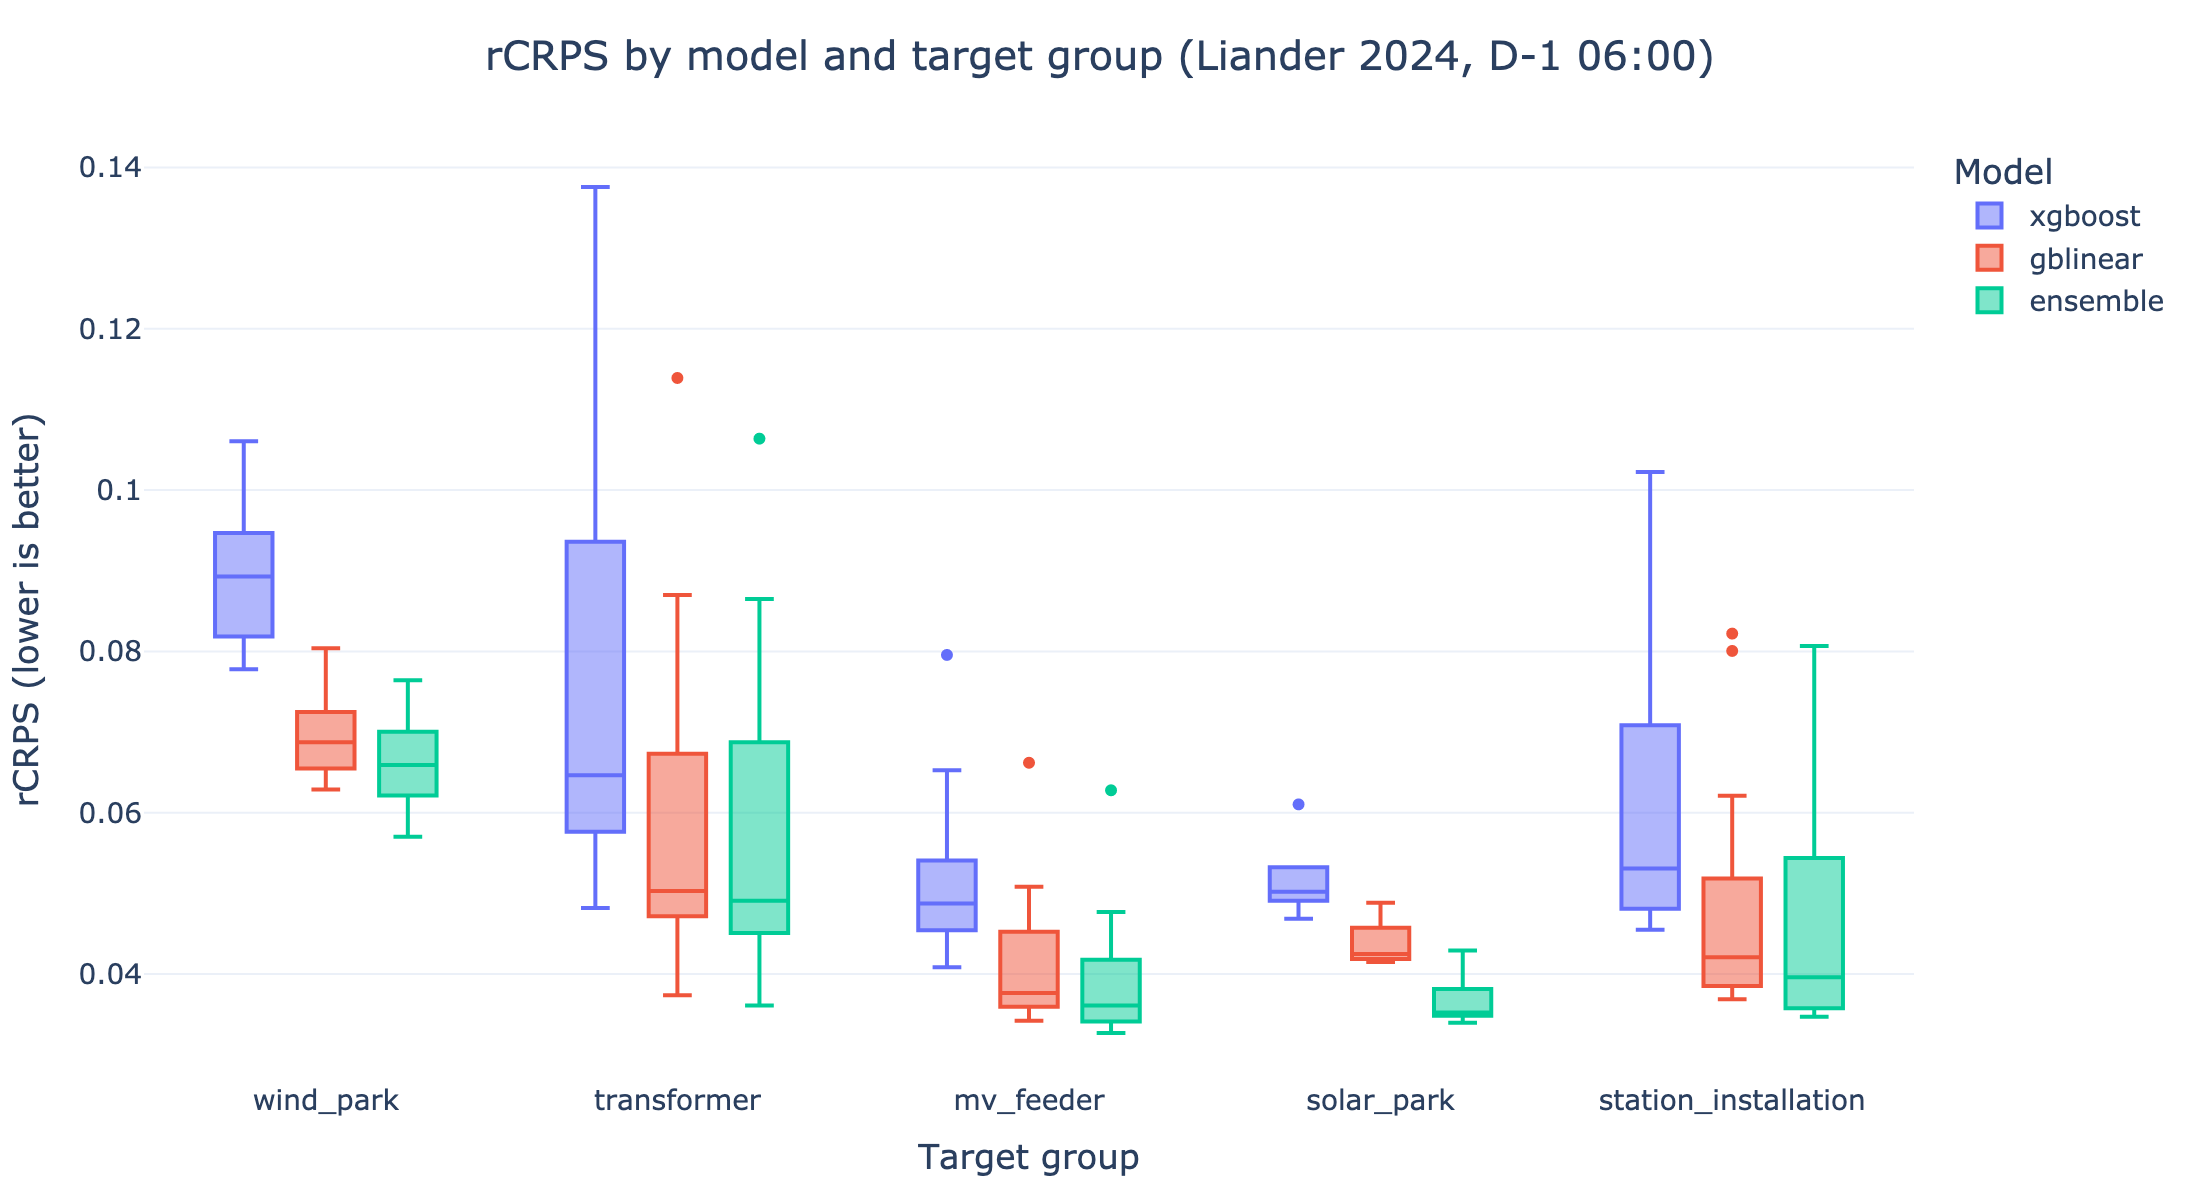
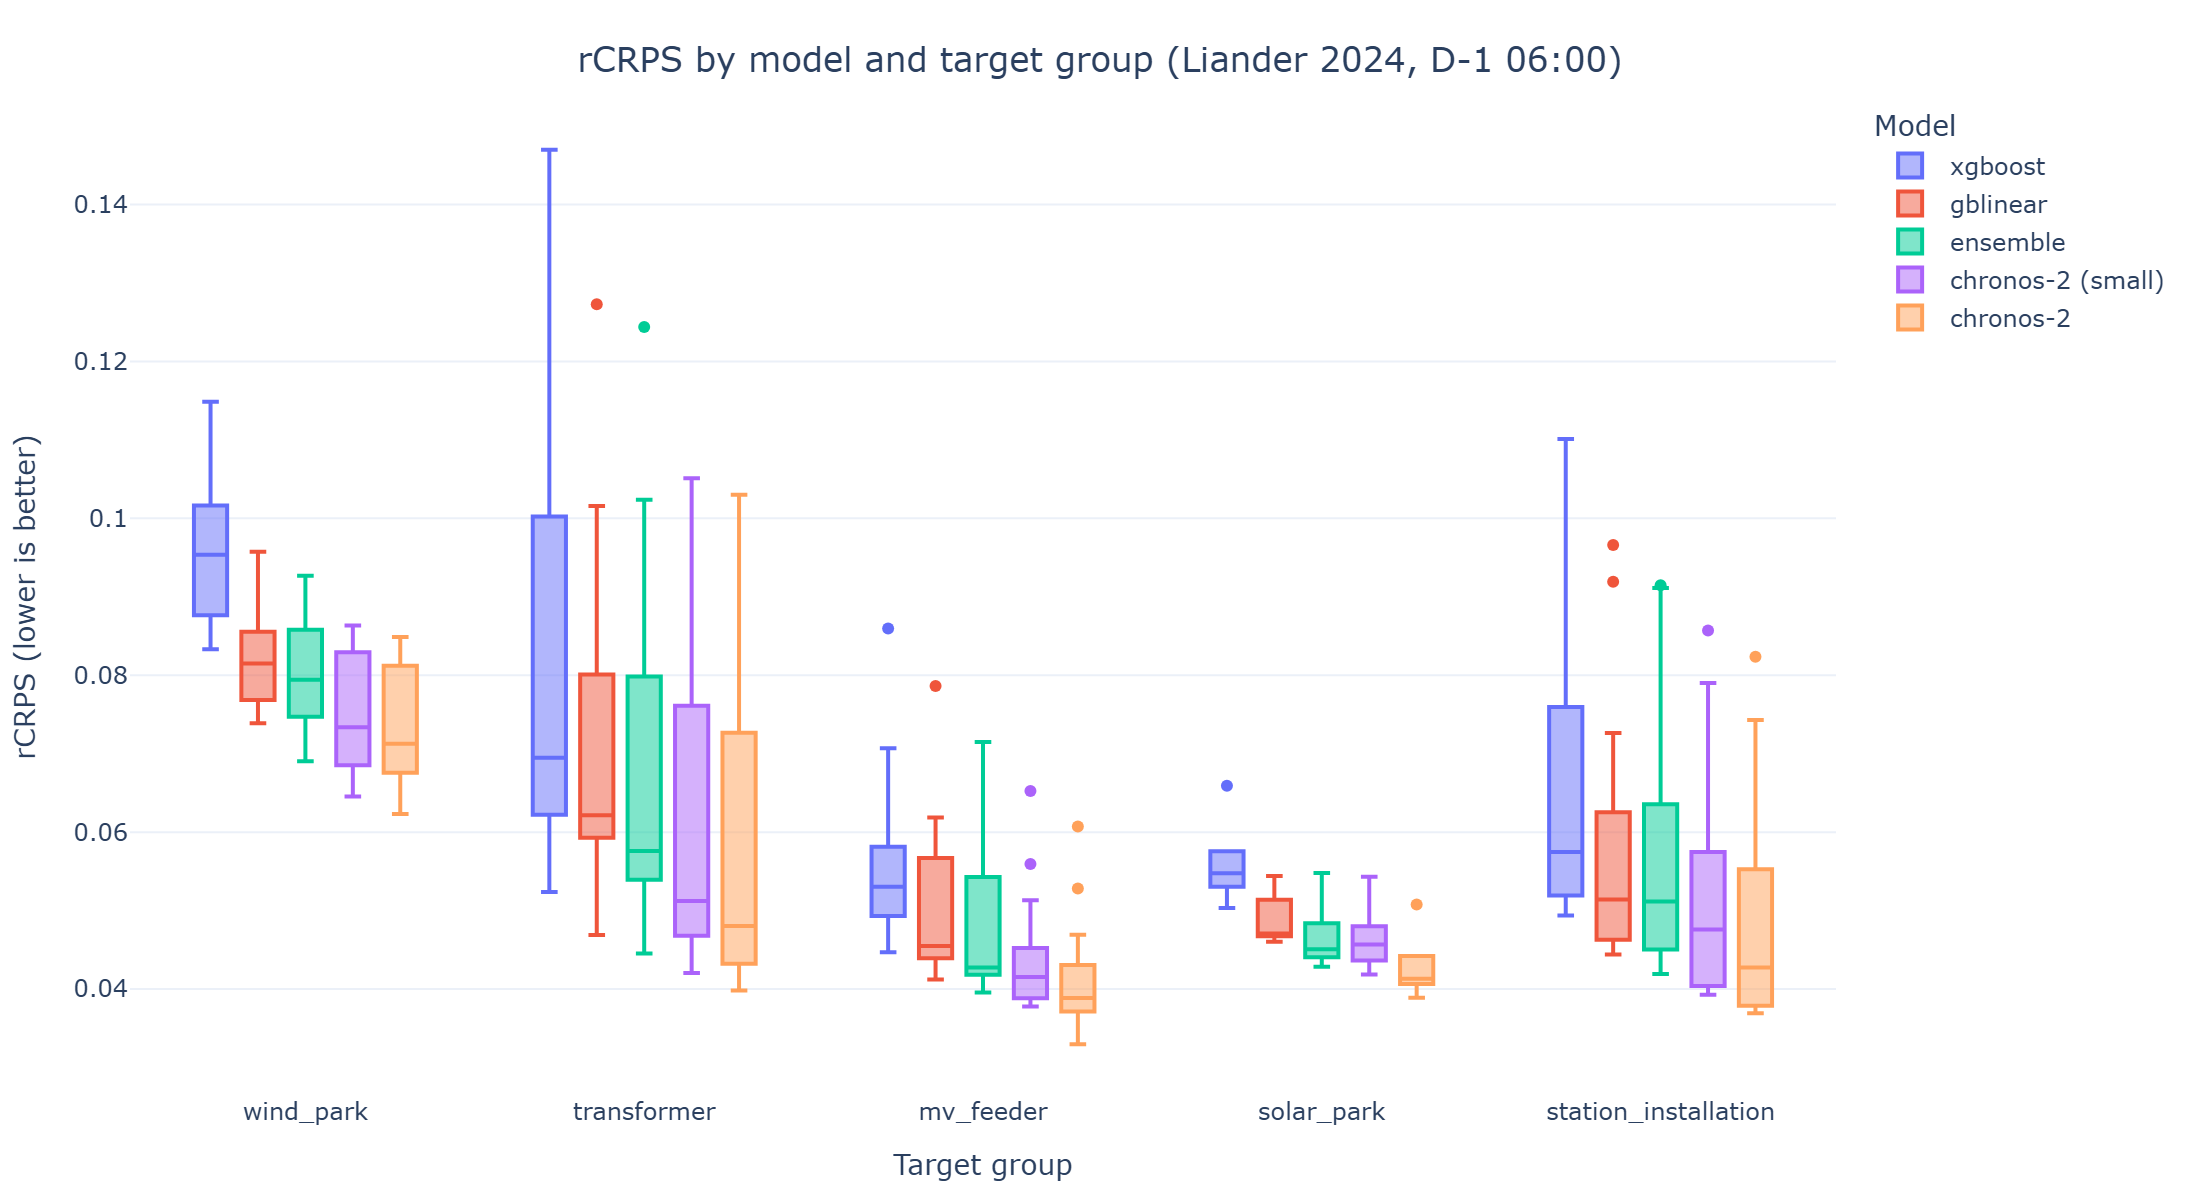
fix: update benchmark numbers with interval rCRPS and include Chronos results in figure (#1208)
<!--
Thanks for contributing to OpenSTEF! Please fill out this template to
help us
review your PR efficiently. See the contributing guide for more details:
https://openstef.github.io/openstef/contribute/index.html
-->

## What does this PR do?

<!-- Describe the change and the motivation behind it. -->

Updates Liander2024 benchmark results page:

- rCRPS uses `interval` instead of `uniform` method
- Chronos results included in figure
- Most recent OpenSTEF version used for benchmarks: also rMAE changed
slightly for XGBoost, GBLinear and ensemble model. Numbers are now
reproducible with current OpenSTEF version

Addresses https://github.com/OpenSTEF/openstef/issues/1182

## Type of change

- [ ] Bug fix
- [ ] New feature
- [ ] Breaking change (see checklist below)
- [x] Documentation
- [ ] Refactor / chore / CI

## Breaking changes checklist

<!-- Only relevant if you checked "Breaking change" above, or are
unsure. -->

- [ ] Public API, config schema, or serialized/pickled objects changed
in a way that affects existing users
- [ ] If yes: see the [breaking changes
guide](https://openstef.github.io/openstef/contribute/development_workflow.html#breaking-changes)
for the pickle/`_migrate_state` migration pattern

Migration path for existing users (e.g. "old pickled `XScaler` objects
auto-migrate on load", "users must now pass `X` explicitly"):

<!-- describe here -->

## AI disclosure

<!--
See our AI-assisted contributions guidelines:
[…]

diff --git a/docs/source/user_guide/guides/benchmark_results.rst b/docs/source/user_guide/guides/benchmark_results.rst
@@ -31,18 +31,12 @@ At a Glance
 
 .. image:: /images/guides/liander2024_rcrps_by_group.png
    :alt: Box plot of rCRPS per model and target group on the Liander 2024 benchmark.
-         The ensemble has the lowest median rCRPS in every group, gblinear is close
-         behind, and xgboost trails.
+         Chronos-2 has the lowest median rCRPS in every group, followed by Chronos-2 
+         small, the ensemble model, GBLinear and XGBoost.
    :align: center
 
 Each box shows the distribution of per-target ``rCRPS`` within a target group (one
 point per target). Lower is better.
-
-.. note::
-
-   This figure covers the **trained classical models** only and predates the
-   foundation-model results. For the zero-shot **Chronos-2** numbers, see the
-   :ref:`tables below <benchmark_tables>`.
 
 **Takeaways**
 
@@ -154,40 +148,40 @@ column is in bold.
      - Solar park
      - Wind park
    * - XGBoost
-     - 0.065
-     - 0.052
-     - 0.062
-     - 0.075
-     - 0.052
-     - 0.089
-   * - GBLinear
-     - 0.051
-     - 0.041
-     - 0.049
-     - 0.059
-     - 0.044
      - 0.070
-   * - Ensemble
+     - 0.057
+     - 0.067
+     - 0.081
+     - 0.056
+     - 0.096
+   * - GBLinear
+     - 0.061
+     - 0.051
+     - 0.059
+     - 0.071
      - 0.049
-     - 0.039
+     - 0.082
+   * - Ensemble
+     - 0.059
+     - 0.048
+     - 0.057
+     - 0.068
      - 0.047
-     - 0.058
-     - 0.037
-     - 0.066
-   * - Chronos-2
-     - **0.044**
-     - **0.035**
-     - **0.042**
-     - **0.050**
-     - **0.036**
-     - **0.063**
+     - 0.080
    * - Chronos-2 (small)
-     - 0.046
-     - 0.038
+     - 0.054
      - 0.044
      - 0.052
-     - 0.039
-     - 0.064
+     - 0.061
+     - 0.046
+     - 0.075
+   * - Chronos-2
+     - **0.051**
+     - **0.041**
+     - **0.049**
+     - **0.058**
+     - **0.043**
+     - **0.074**
 
 .. list-table:: rCRPS - sample-weighted / peak-focused (lower is better)
    :header-rows: 1
@@ -202,40 +196,40 @@ column is in bold.
      - Solar park
      - Wind park
    * - XGBoost
-     - 0.082
-     - 0.056
-     - 0.068
-     - 0.085
-     - 0.113
-     - 0.156
+     - 0.087
+     - 0.061
+     - 0.073
+     - 0.091
+     - 0.121
+     - 0.164
    * - GBLinear
-     - 0.063
-     - 0.045
-     - 0.054
-     - 0.069
      - 0.077
-     - 0.107
+     - 0.056
+     - 0.066
+     - 0.083
+     - 0.100
+     - 0.132
    * - Ensemble
-     - 0.059
-     - 0.042
-     - 0.053
      - 0.067
-     - **0.069**
-     - 0.096
-   * - Chronos-2
-     - **0.051**
-     - **0.036**
-     - **0.043**
-     - **0.053**
-     - **0.069**
-     - **0.093**
+     - 0.049
+     - 0.060
+     - 0.075
+     - **0.078**
+     - **0.109**
    * - Chronos-2 (small)
+     - 0.062
+     - 0.045
      - 0.053
-     - 0.038
-     - 0.046
-     - 0.055
-     - 0.074
-     - 0.094
+     - 0.065
+     - 0.087
+     - 0.110
+   * - Chronos-2
+     - **0.059**
+     - **0.042**
+     - **0.050**
+     - **0.062**
+     - 0.081
+     - **0.109**
 
 .. list-table:: rMAE (P50) - median point forecast (lower is better)
    :header-rows: 1
@@ -250,33 +244,26 @@ column is in bold.
      - Solar park
      - Wind park
    * - XGBoost
-     - 0.084
-     - 0.067
-     - 0.079
-     - 0.095
-     - 0.067
-     - 0.111
-   * - GBLinear
-     - 0.084
+     - 0.082
      - 0.067
      - 0.079
      - 0.094
+     - 0.067
+     - 0.111
+   * - GBLinear
+     - 0.085
+     - 0.072
+     - 0.082
+     - 0.098
      - 0.070
-     - 0.110
+     - 0.113
    * - Ensemble
+     - 0.081
+     - 0.067
      - 0.078
-     - 0.063
-     - 0.074
-     - 0.089
-     - **0.062**
-     - **0.103**
-   * - Chronos-2
-     - **0.072**
-     - **0.058**
-     - **0.069**
-     - **0.082**
-     - **0.062**
-     - **0.103**
+     - 0.093
+     - 0.067
+     - 0.110
    * - Chronos-2 (small)
      - 0.076
      - 0.062
@@ -284,7 +271,13 @@ column is in bold.
      - 0.086
      - 0.066
      - 0.105
-
+   * - Chronos-2
+     - **0.072**
+     - **0.058**
+     - **0.069**
+     - **0.082**
+     - **0.062**
+     - **0.103**
 
 How These Numbers Were Produced
 -------------------------------
@@ -309,8 +302,8 @@ How These Numbers Were Produced
        (no future data leakage).
    * - Evaluation
      - Sequential :doc:`BEAM </user_guide/concepts/beam>` backtest over 2024. rCRPS is computed per target
-       from quantile forecasts (normalization range :math:`P_1`–:math:`P_{99}`), then
-       averaged within each group.
+       from quantile forecasts using interval quantile weighting (normalization range
+       :math:`P_1`–:math:`P_{99}`), then averaged within each group.
 
 For the full methodology — how the backtest prevents leakage and how metrics are
 segmented — see :doc:`BEAM </user_guide/concepts/beam>`. To benchmark your *own* model or data on the same
